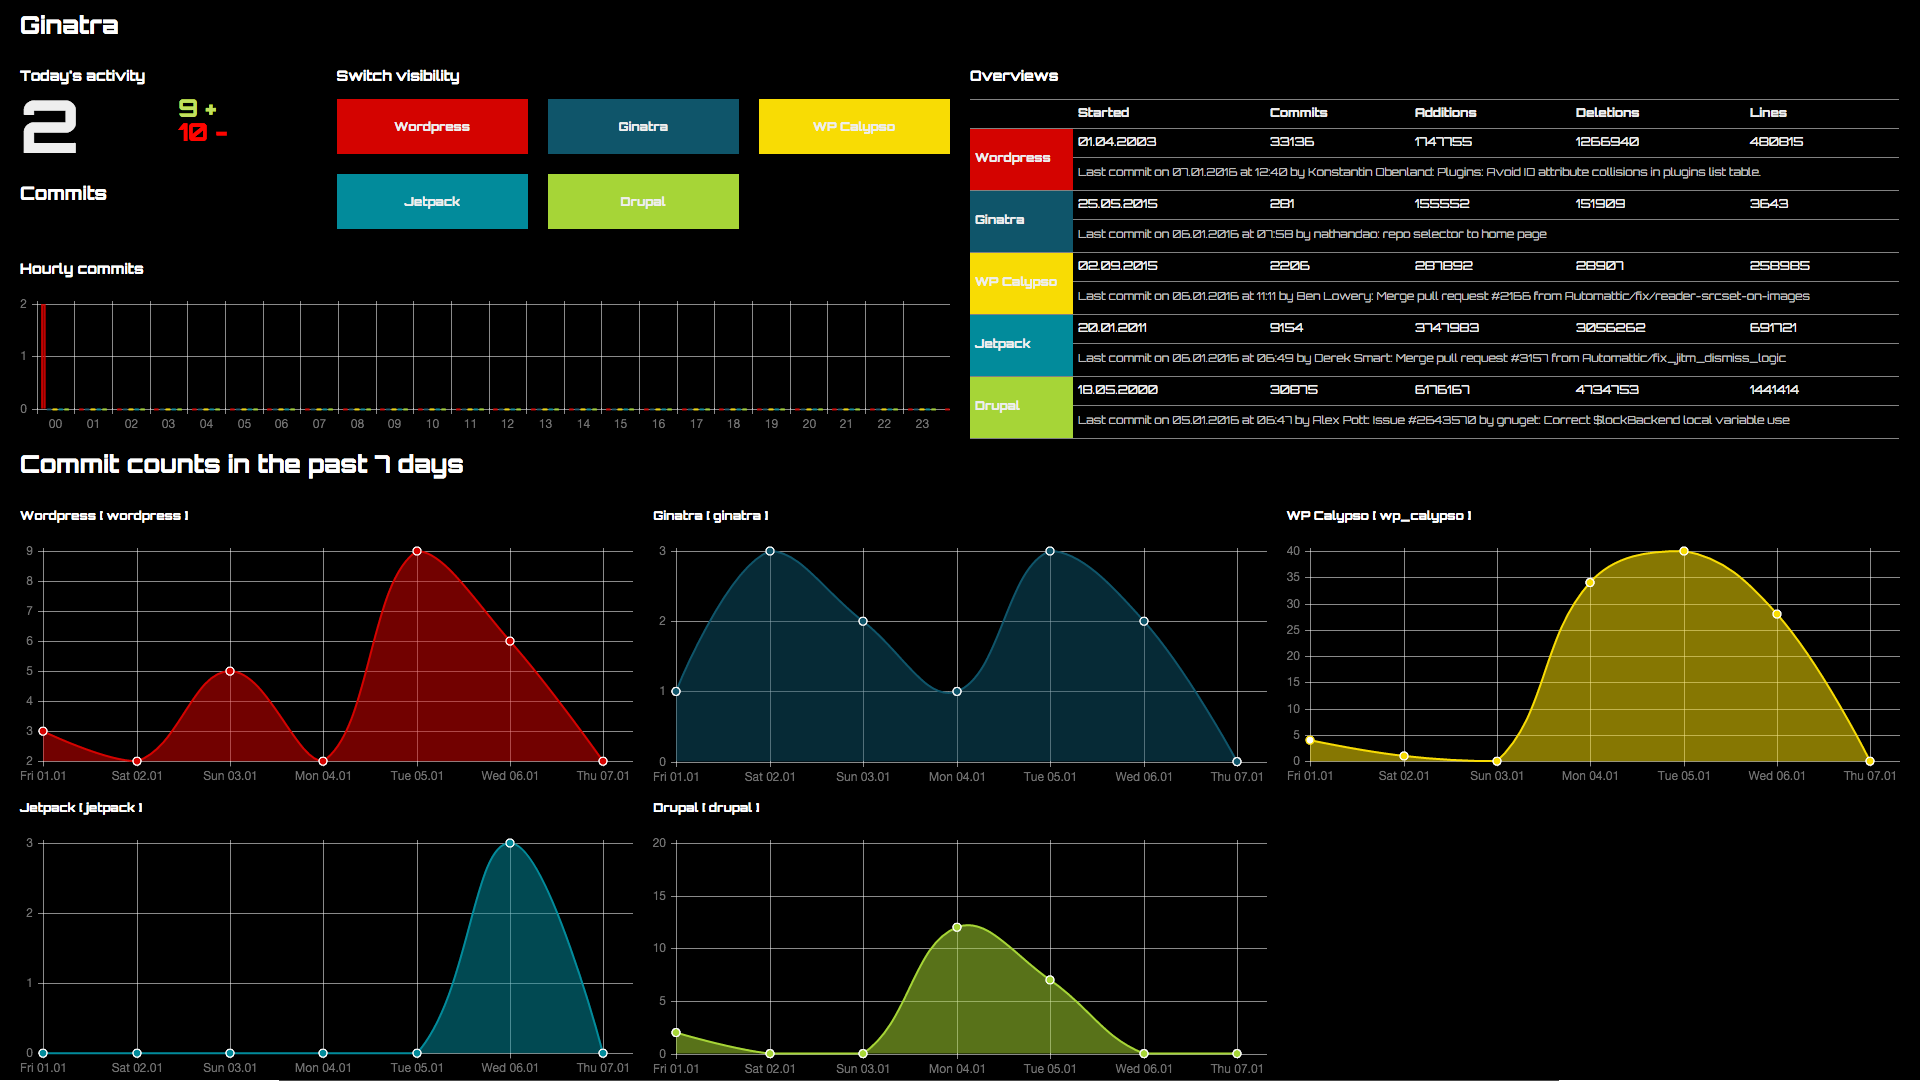
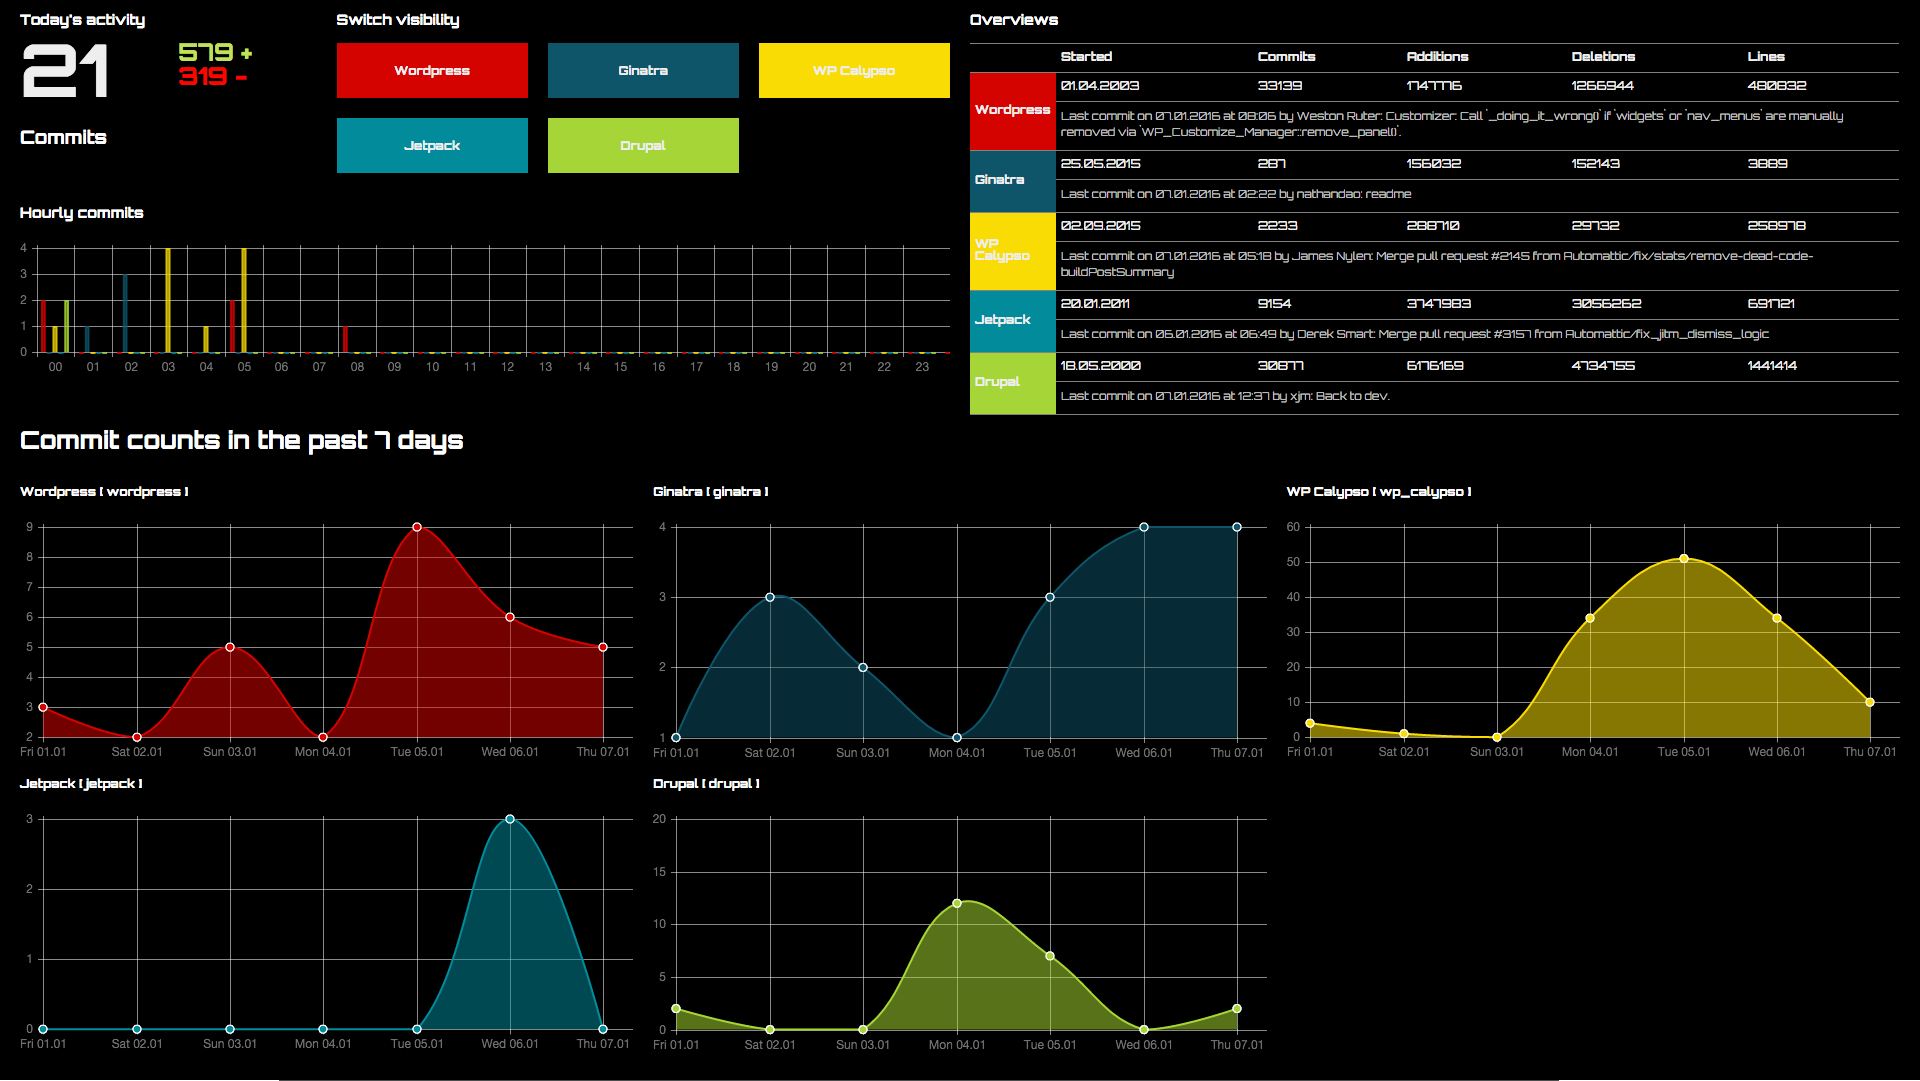
fix today's overview additions deletions count and update screenshots

diff --git a/assets/js/src/components/Dashboard/TodayOverview.js b/assets/js/src/components/Dashboard/TodayOverview.js
@@ -25,16 +25,23 @@ class TodayOverview extends React.Component {
         let commitDate = moment(new Date(commit.date)).unix();
         return commitDate >= todayStart && commitDate <= todayEnd;
       });
-
       todayData.commitsCount = todayData.commitsCount + todayCommits.length;
-
       _.forEach(todayCommits, (commit) => {
         _.forEach(commit.changes, (change) => {
+          let additions = Number(change.additions);
+          let deletions = Number(change.deletions);
+          if (isNaN(additions)) {
+            additions = 0;
+          }
+          if (isNaN(deletions)) {
+            deletions = 0;
+          }
+
           if (change.additions) {
-            todayData.additions = todayData.additions + Number(change.additions);
+            todayData.additions = todayData.additions + additions;
           }
           if (change.deletions) {
-            todayData.deletions = todayData.deletions + Number(change.deletions);
+            todayData.deletions = todayData.deletions + deletions;
           }
         });
       });
@@ -45,6 +52,7 @@ class TodayOverview extends React.Component {
 
   render() {
     let todayData = this.getTodayData();
+
     return (
       <section>
         <div className="col-half">

diff --git a/assets/js/src/components/Dashboard/Dashboard.js b/assets/js/src/components/Dashboard/Dashboard.js
@@ -25,7 +25,6 @@ class Dashboard extends React.Component {
   render() {
     return (
       <div>
-        <h1>Ginatra</h1>
         <section>
           <div className="col-half">
             <section>
